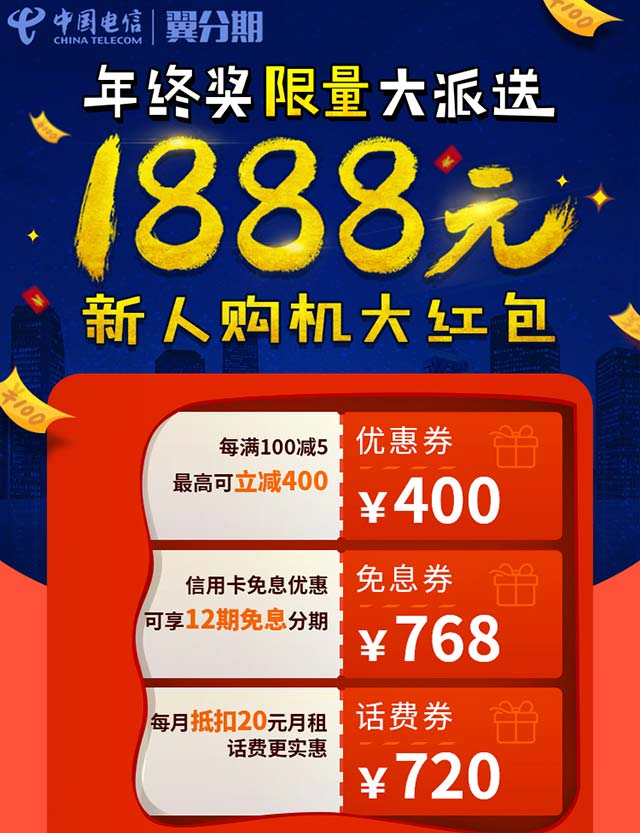
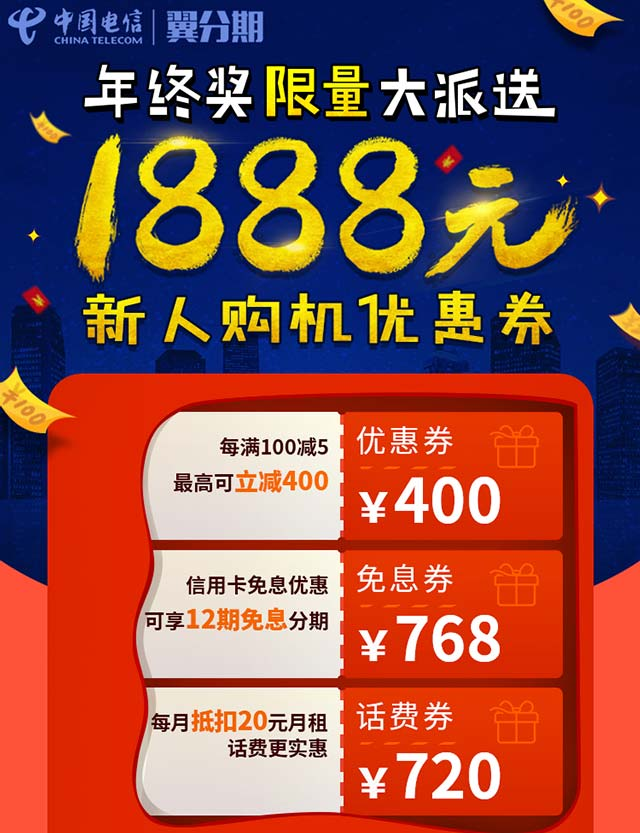
更新优惠券

diff --git a/public/spc/js/jquery.SuperSlide.2.1.1.js b/public/spc/js/jquery.SuperSlide.2.1.1.js
@@ -1,0 +1,15 @@
+/*!
+ * SuperSlide v2.1.1 
+ * 轻松解决网站大部分特效展示问题
+ * 详尽信息请看官网：http://www.SuperSlide2.com/
+ *
+ * Copyright 2011-2013, 大话主席
+ *
+ * 请尊重原创，保留头部版权
+ * 在保留版权的前提下可应用于个人或商业用途
+
+ * v2.1.1：修复当调用多个SuperSlide，并设置returnDefault:true 时返回defaultIndex索引错误
+
+ */
+
+!function(a){a.fn.slide=function(b){return a.fn.slide.defaults={type:"slide",effect:"fade",autoPlay:!1,delayTime:500,interTime:2500,triggerTime:150,defaultIndex:0,titCell:".hd li",mainCell:".bd",targetCell:null,trigger:"mouseover",scroll:1,vis:1,titOnClassName:"on",autoPage:!1,prevCell:".prev",nextCell:".next",pageStateCell:".pageState",opp:!1,pnLoop:!0,easing:"swing",startFun:null,endFun:null,switchLoad:null,playStateCell:".playState",mouseOverStop:!0,defaultPlay:!0,returnDefault:!1},this.each(function(){var c=a.extend({},a.fn.slide.defaults,b),d=a(this),e=c.effect,f=a(c.prevCell,d),g=a(c.nextCell,d),h=a(c.pageStateCell,d),i=a(c.playStateCell,d),j=a(c.titCell,d),k=j.size(),l=a(c.mainCell,d),m=l.children().size(),n=c.switchLoad,o=a(c.targetCell,d),p=parseInt(c.defaultIndex),q=parseInt(c.delayTime),r=parseInt(c.interTime);parseInt(c.triggerTime);var Q,t=parseInt(c.scroll),u=parseInt(c.vis),v="false"==c.autoPlay||0==c.autoPlay?!1:!0,w="false"==c.opp||0==c.opp?!1:!0,x="false"==c.autoPage||0==c.autoPage?!1:!0,y="false"==c.pnLoop||0==c.pnLoop?!1:!0,z="false"==c.mouseOverStop||0==c.mouseOverStop?!1:!0,A="false"==c.defaultPlay||0==c.defaultPlay?!1:!0,B="false"==c.returnDefault||0==c.returnDefault?!1:!0,C=0,D=0,E=0,F=0,G=c.easing,H=null,I=null,J=null,K=c.titOnClassName,L=j.index(d.find("."+K)),M=p=-1==L?p:L,N=p,O=p,P=m>=u?0!=m%t?m%t:t:0,R="leftMarquee"==e||"topMarquee"==e?!0:!1,S=function(){a.isFunction(c.startFun)&&c.startFun(p,k,d,a(c.titCell,d),l,o,f,g)},T=function(){a.isFunction(c.endFun)&&c.endFun(p,k,d,a(c.titCell,d),l,o,f,g)},U=function(){j.removeClass(K),A&&j.eq(N).addClass(K)};if("menu"==c.type)return A&&j.removeClass(K).eq(p).addClass(K),j.hover(function(){Q=a(this).find(c.targetCell);var b=j.index(a(this));I=setTimeout(function(){switch(p=b,j.removeClass(K).eq(p).addClass(K),S(),e){case"fade":Q.stop(!0,!0).animate({opacity:"show"},q,G,T);break;case"slideDown":Q.stop(!0,!0).animate({height:"show"},q,G,T)}},c.triggerTime)},function(){switch(clearTimeout(I),e){case"fade":Q.animate({opacity:"hide"},q,G);break;case"slideDown":Q.animate({height:"hide"},q,G)}}),B&&d.hover(function(){clearTimeout(J)},function(){J=setTimeout(U,q)}),void 0;if(0==k&&(k=m),R&&(k=2),x){if(m>=u)if("leftLoop"==e||"topLoop"==e)k=0!=m%t?(0^m/t)+1:m/t;else{var V=m-u;k=1+parseInt(0!=V%t?V/t+1:V/t),0>=k&&(k=1)}else k=1;j.html("");var W="";if(1==c.autoPage||"true"==c.autoPage)for(var X=0;k>X;X++)W+="<li>"+(X+1)+"</li>";else for(var X=0;k>X;X++)W+=c.autoPage.replace("$",X+1);j.html(W);var j=j.children()}if(m>=u){l.children().each(function(){a(this).width()>E&&(E=a(this).width(),D=a(this).outerWidth(!0)),a(this).height()>F&&(F=a(this).height(),C=a(this).outerHeight(!0))});var Y=l.children(),Z=function(){for(var a=0;u>a;a++)Y.eq(a).clone().addClass("clone").appendTo(l);for(var a=0;P>a;a++)Y.eq(m-a-1).clone().addClass("clone").prependTo(l)};switch(e){case"fold":l.css({position:"relative",width:D,height:C}).children().css({position:"absolute",width:E,left:0,top:0,display:"none"});break;case"top":l.wrap('<div class="tempWrap" style="overflow:hidden; position:relative; height:'+u*C+'px"></div>').css({top:-(p*t)*C,position:"relative",padding:"0",margin:"0"}).children().css({height:F});break;case"left":l.wrap('<div class="tempWrap" style="overflow:hidden; position:relative; width:'+u*D+'px"></div>').css({width:m*D,left:-(p*t)*D,position:"relative",overflow:"hidden",padding:"0",margin:"0"}).children().css({"float":"left",width:E});break;case"leftLoop":case"leftMarquee":Z(),l.wrap('<div class="tempWrap" style="overflow:hidden; position:relative; width:'+u*D+'px"></div>').css({width:(m+u+P)*D,position:"relative",overflow:"hidden",padding:"0",margin:"0",left:-(P+p*t)*D}).children().css({"float":"left",width:E});break;case"topLoop":case"topMarquee":Z(),l.wrap('<div class="tempWrap" style="overflow:hidden; position:relative; height:'+u*C+'px"></div>').css({height:(m+u+P)*C,position:"relative",padding:"0",margin:"0",top:-(P+p*t)*C}).children().css({height:F})}}var $=function(a){var b=a*t;return a==k?b=m:-1==a&&0!=m%t&&(b=-m%t),b},_=function(b){var c=function(c){for(var d=c;u+c>d;d++)b.eq(d).find("img["+n+"]").each(function(){var b=a(this);if(b.attr("src",b.attr(n)).removeAttr(n),l.find(".clone")[0])for(var c=l.children(),d=0;d<c.size();d++)c.eq(d).find("img["+n+"]").each(function(){a(this).attr(n)==b.attr("src")&&a(this).attr("src",a(this).attr(n)).removeAttr(n)})})};switch(e){case"fade":case"fold":case"top":case"left":case"slideDown":c(p*t);break;case"leftLoop":case"topLoop":c(P+$(O));break;case"leftMarquee":case"topMarquee":var d="leftMarquee"==e?l.css("left").replace("px",""):l.css("top").replace("px",""),f="leftMarquee"==e?D:C,g=P;if(0!=d%f){var h=Math.abs(0^d/f);g=1==p?P+h:P+h-1}c(g)}},ab=function(a){if(!A||M!=p||a||R){if(R?p>=1?p=1:0>=p&&(p=0):(O=p,p>=k?p=0:0>p&&(p=k-1)),S(),null!=n&&_(l.children()),o[0]&&(Q=o.eq(p),null!=n&&_(o),"slideDown"==e?(o.not(Q).stop(!0,!0).slideUp(q),Q.slideDown(q,G,function(){l[0]||T()})):(o.not(Q).stop(!0,!0).hide(),Q.animate({opacity:"show"},q,function(){l[0]||T()}))),m>=u)switch(e){case"fade":l.children().stop(!0,!0).eq(p).animate({opacity:"show"},q,G,function(){T()}).siblings().hide();break;case"fold":l.children().stop(!0,!0).eq(p).animate({opacity:"show"},q,G,function(){T()}).siblings().animate({opacity:"hide"},q,G);break;case"top":l.stop(!0,!1).animate({top:-p*t*C},q,G,function(){T()});break;case"left":l.stop(!0,!1).animate({left:-p*t*D},q,G,function(){T()});break;case"leftLoop":var b=O;l.stop(!0,!0).animate({left:-($(O)+P)*D},q,G,function(){-1>=b?l.css("left",-(P+(k-1)*t)*D):b>=k&&l.css("left",-P*D),T()});break;case"topLoop":var b=O;l.stop(!0,!0).animate({top:-($(O)+P)*C},q,G,function(){-1>=b?l.css("top",-(P+(k-1)*t)*C):b>=k&&l.css("top",-P*C),T()});break;case"leftMarquee":var c=l.css("left").replace("px","");0==p?l.animate({left:++c},0,function(){l.css("left").replace("px","")>=0&&l.css("left",-m*D)}):l.animate({left:--c},0,function(){l.css("left").replace("px","")<=-(m+P)*D&&l.css("left",-P*D)});break;case"topMarquee":var d=l.css("top").replace("px","");0==p?l.animate({top:++d},0,function(){l.css("top").replace("px","")>=0&&l.css("top",-m*C)}):l.animate({top:--d},0,function(){l.css("top").replace("px","")<=-(m+P)*C&&l.css("top",-P*C)})}j.removeClass(K).eq(p).addClass(K),M=p,y||(g.removeClass("nextStop"),f.removeClass("prevStop"),0==p&&f.addClass("prevStop"),p==k-1&&g.addClass("nextStop")),h.html("<span>"+(p+1)+"</span>/"+k)}};A&&ab(!0),B&&d.hover(function(){clearTimeout(J)},function(){J=setTimeout(function(){p=N,A?ab():"slideDown"==e?Q.slideUp(q,U):Q.animate({opacity:"hide"},q,U),M=p},300)});var bb=function(a){H=setInterval(function(){w?p--:p++,ab()},a?a:r)},cb=function(a){H=setInterval(ab,a?a:r)},db=function(){z||(clearInterval(H),bb())},eb=function(){(y||p!=k-1)&&(p++,ab(),R||db())},fb=function(){(y||0!=p)&&(p--,ab(),R||db())},gb=function(){clearInterval(H),R?cb():bb(),i.removeClass("pauseState")},hb=function(){clearInterval(H),i.addClass("pauseState")};if(v?R?(w?p--:p++,cb(),z&&l.hover(hb,gb)):(bb(),z&&d.hover(hb,gb)):(R&&(w?p--:p++),i.addClass("pauseState")),i.click(function(){i.hasClass("pauseState")?gb():hb()}),"mouseover"==c.trigger?j.hover(function(){var a=j.index(this);I=setTimeout(function(){p=a,ab(),db()},c.triggerTime)},function(){clearTimeout(I)}):j.click(function(){p=j.index(this),ab(),db()}),R){if(g.mousedown(eb),f.mousedown(fb),y){var ib,jb=function(){ib=setTimeout(function(){clearInterval(H),cb(0^r/10)},150)},kb=function(){clearTimeout(ib),clearInterval(H),cb()};g.mousedown(jb),g.mouseup(kb),f.mousedown(jb),f.mouseup(kb)}"mouseover"==c.trigger&&(g.hover(eb,function(){}),f.hover(fb,function(){}))}else g.click(eb),f.click(fb)})}}(jQuery),jQuery.easing.jswing=jQuery.easing.swing,jQuery.extend(jQuery.easing,{def:"easeOutQuad",swing:function(a,b,c,d,e){return jQuery.easing[jQuery.easing.def](a,b,c,d,e)},easeInQuad:function(a,b,c,d,e){return d*(b/=e)*b+c},easeOutQuad:function(a,b,c,d,e){return-d*(b/=e)*(b-2)+c},easeInOutQuad:function(a,b,c,d,e){return(b/=e/2)<1?d/2*b*b+c:-d/2*(--b*(b-2)-1)+c},easeInCubic:function(a,b,c,d,e){return d*(b/=e)*b*b+c},easeOutCubic:function(a,b,c,d,e){return d*((b=b/e-1)*b*b+1)+c},easeInOutCubic:function(a,b,c,d,e){return(b/=e/2)<1?d/2*b*b*b+c:d/2*((b-=2)*b*b+2)+c},easeInQuart:function(a,b,c,d,e){return d*(b/=e)*b*b*b+c},easeOutQuart:function(a,b,c,d,e){return-d*((b=b/e-1)*b*b*b-1)+c},easeInOutQuart:function(a,b,c,d,e){return(b/=e/2)<1?d/2*b*b*b*b+c:-d/2*((b-=2)*b*b*b-2)+c},easeInQuint:function(a,b,c,d,e){return d*(b/=e)*b*b*b*b+c},easeOutQuint:function(a,b,c,d,e){return d*((b=b/e-1)*b*b*b*b+1)+c},easeInOutQuint:function(a,b,c,d,e){return(b/=e/2)<1?d/2*b*b*b*b*b+c:d/2*((b-=2)*b*b*b*b+2)+c},easeInSine:function(a,b,c,d,e){return-d*Math.cos(b/e*(Math.PI/2))+d+c},easeOutSine:function(a,b,c,d,e){return d*Math.sin(b/e*(Math.PI/2))+c},easeInOutSine:function(a,b,c,d,e){return-d/2*(Math.cos(Math.PI*b/e)-1)+c},easeInExpo:function(a,b,c,d,e){return 0==b?c:d*Math.pow(2,10*(b/e-1))+c},easeOutExpo:function(a,b,c,d,e){return b==e?c+d:d*(-Math.pow(2,-10*b/e)+1)+c},easeInOutExpo:function(a,b,c,d,e){return 0==b?c:b==e?c+d:(b/=e/2)<1?d/2*Math.pow(2,10*(b-1))+c:d/2*(-Math.pow(2,-10*--b)+2)+c},easeInCirc:function(a,b,c,d,e){return-d*(Math.sqrt(1-(b/=e)*b)-1)+c},easeOutCirc:function(a,b,c,d,e){return d*Math.sqrt(1-(b=b/e-1)*b)+c},easeInOutCirc:function(a,b,c,d,e){return(b/=e/2)<1?-d/2*(Math.sqrt(1-b*b)-1)+c:d/2*(Math.sqrt(1-(b-=2)*b)+1)+c},easeInElastic:function(a,b,c,d,e){var f=1.70158,g=0,h=d;if(0==b)return c;if(1==(b/=e))return c+d;if(g||(g=.3*e),h<Math.abs(d)){h=d;var f=g/4}else var f=g/(2*Math.PI)*Math.asin(d/h);return-(h*Math.pow(2,10*(b-=1))*Math.sin((b*e-f)*2*Math.PI/g))+c},easeOutElastic:function(a,b,c,d,e){var f=1.70158,g=0,h=d;if(0==b)return c;if(1==(b/=e))return c+d;if(g||(g=.3*e),h<Math.abs(d)){h=d;var f=g/4}else var f=g/(2*Math.PI)*Math.asin(d/h);return h*Math.pow(2,-10*b)*Math.sin((b*e-f)*2*Math.PI/g)+d+c},easeInOutElastic:function(a,b,c,d,e){var f=1.70158,g=0,h=d;if(0==b)return c;if(2==(b/=e/2))return c+d;if(g||(g=e*.3*1.5),h<Math.abs(d)){h=d;var f=g/4}else var f=g/(2*Math.PI)*Math.asin(d/h);return 1>b?-.5*h*Math.pow(2,10*(b-=1))*Math.sin((b*e-f)*2*Math.PI/g)+c:.5*h*Math.pow(2,-10*(b-=1))*Math.sin((b*e-f)*2*Math.PI/g)+d+c},easeInBack:function(a,b,c,d,e,f){return void 0==f&&(f=1.70158),d*(b/=e)*b*((f+1)*b-f)+c},easeOutBack:function(a,b,c,d,e,f){return void 0==f&&(f=1.70158),d*((b=b/e-1)*b*((f+1)*b+f)+1)+c},easeInOutBack:function(a,b,c,d,e,f){return void 0==f&&(f=1.70158),(b/=e/2)<1?d/2*b*b*(((f*=1.525)+1)*b-f)+c:d/2*((b-=2)*b*(((f*=1.525)+1)*b+f)+2)+c},easeInBounce:function(a,b,c,d,e){return d-jQuery.easing.easeOutBounce(a,e-b,0,d,e)+c},easeOutBounce:function(a,b,c,d,e){return(b/=e)<1/2.75?d*7.5625*b*b+c:2/2.75>b?d*(7.5625*(b-=1.5/2.75)*b+.75)+c:2.5/2.75>b?d*(7.5625*(b-=2.25/2.75)*b+.9375)+c:d*(7.5625*(b-=2.625/2.75)*b+.984375)+c},easeInOutBounce:function(a,b,c,d,e){return e/2>b?.5*jQuery.easing.easeInBounce(a,2*b,0,d,e)+c:.5*jQuery.easing.easeOutBounce(a,2*b-e,0,d,e)+.5*d+c}});

diff --git a/public/html/pages/phone/active/active.js b/public/html/pages/phone/active/active.js
@@ -44,46 +44,34 @@ app.config(['$stateProvider', '$locationProvider', function ($stateProvider, $lo
     //统计
     writebdLog($scope.category, "_Load", "渠道号", $scope.gh);
 
-    $interval(function () {
-        $scope.getters = [
-            {
-                txt: getRandomReceiverPhone() + " 领取了1888元大红包 <span>" + getRanDomTime() + "秒前</span>"
-            },
-            {
-                txt: getRandomReceiverPhone() + " 领取了1888元大红包 <span>" + getRanDomTime() + "秒前</span>"
-            },
-            {
-                txt: getRandomReceiverPhone() + " 领取了1888元大红包 <span>" + getRanDomTime() + "秒前</span>"
-            },
-            {
-                txt: getRandomReceiverPhone() + " 领取了1888元大红包 <span>" + getRanDomTime() + "秒前</span>"
-            },
+    var objGetters = new Array();
+
+    for (var i = 0; i <= 10; i++) {
+        objGetters.push(
             {
                 txt: getRandomReceiverPhone() + " 领取了1888元大红包 <span>" + getRanDomTime() + "秒前</span>"
             }
-        ];
-    }, 2000);
+        );
+    }
 
-    /*$(".content-scrollable").bind("scroll", function () {
-     var $footerNav = $(".footer-nav");
-     var $rightNav = $(".right-nav");
-     var targetTop = $(".hot-phone").offset().top;
-     if ($(this).scrollTop() > 500) {
-     $rightNav.show(300);
-     $footerNav.show(300);
-     } else {
-     $rightNav.hide(300);
-     $footerNav.hide(300);
-     }
-     });*/
-
-    $interval(function () {
-        $scope.selkillTxt = getRandomName() + "，刚刚购买了 " + getRandomProduct();
-    }, 2000);
+    $scope.getters = objGetters;
 
     //记录用户购买的商品：专区模块英文名称+商品id
     $scope.writeSelectFoods = function (obj, productId, modular) {
         writebdLog($scope.category, "_" + productId + modular, "渠道号", $scope.gh);//选择的商品ID
     };
+
+    $scope.$on('ngRepeatFinished', function (ngRepeatFinishedEvent) {
+        //下面是在数据 render完成后执行的js
+        console.log("1");
+        $(".getters").slide({
+            mainCell: "ul",
+            autoPage: true,
+            effect: "topMarquee",
+            autoPlay: true,
+            interTime: 50,
+            vis: 5
+        });
+    });
 
 }]);

diff --git a/public/html/pages/phone/active/A/index.html b/public/html/pages/phone/active/A/index.html
@@ -1,7 +1,7 @@
 <div class="page active-a">
     <!-- pia phone-index-c -->
     <top-nav page-title="中国电信●翼分期商城" page-back="menu" nav-visibility="hide"></top-nav>
-    <div class="content-scrollable has-footer">
+    <div class="content-scrollable">
         <gh></gh>
         <div id="indexBanner">
             <div class="img-box">
@@ -37,7 +37,9 @@
                 <img src="/images/active/4.jpg">
             </div>
             <div class="getters">
-                <p ng-repeat="getter in getters" ng-bind-html="getter.txt | trustHtml"></p>
+                <ul>
+                    <li ng-repeat="getter in getters" ng-bind-html="getter.txt | trustHtml" on-finish></li>
+                </ul>
             </div>
         </div>
 

diff --git a/routes/api.js b/routes/api.js
@@ -359,11 +359,20 @@ router.get('/getNumber', function (req, res) {
     });
 });
 
-router.post('/wechat', function (req, res) {
-    var clientUrl = req.body.url;
+router.get('/wechat/:surl', function (req, res) {
+    res.header("Access-Control-Allow-Origin", "*");
+    res.header("Access-Control-Allow-Methods", "GET, POST");
+    //以上两行设置跨域请求
+
+    var clientUrl = req.params.surl;
+
+    console.log(clientUrl);
 
     getJsApiData(clientUrl).then(function (data) {
         res.send({signature: data[0], timestamp: data[1], nonceStr: data[2]});
+        console.log(
+            {signature: data[0], timestamp: data[1], nonceStr: data[2]}
+        );
     });
 });
 

diff --git a/public/html/pages/phoneCard/recharge/index.html b/public/html/pages/phoneCard/recharge/index.html
@@ -65,7 +65,7 @@
                     <div class="pd-w">
                         <ul class="item-lists minus pure-g">
                             <li class="list-item pure-u-5-8">
-                                <a href="http://app.yfq.cn/spc/pcd/index.html{{params}}" class="item-box margin border radius small active">
+                                <a href="http://app.yfq.cn/spc/pcd/index.html{{params}}" class="item-box margin border radius small" ng-class="{true:'active',false:'disabled'}[rechargeStatus == 0]">
                                     9.9元领卡，享充值优惠
                                 </a>
                             </li>

diff --git a/public/index.html b/public/index.html
@@ -91,6 +91,7 @@
 <script src="//apps.bdimg.com/libs/jquery/1.11.3/jquery.min.js" type="text/javascript"></script>
 <script src="//cdn.bootcss.com/jquery_lazyload/1.9.7/jquery.lazyload.min.js" type="text/javascript"></script>
 <script src="//cdn.bootcss.com/owl-carousel/1.32/owl.carousel.min.js" type="text/javascript"></script>
+<script src="/spc/js/jquery.SuperSlide.2.1.1.js" type="text/javascript"></script>
 <script src="https://res.wx.qq.com/open/js/jweixin-1.0.0.js" type="text/javascript"></script>
 <script src="/spc/js/nativeShare.js" type="text/javascript"></script>
 <!--<script src="/bower_components/velocity/velocity.min.js"></script>-->

diff --git a/routes/wxApi/wechatConfig.js b/routes/wxApi/wechatConfig.js
@@ -1,0 +1,4 @@
+module.exports = {
+    appid: 'wx4e6146eaa235aaa1',//公众号的appId，可以在公众平台上找到，-。-自己找。
+    appsecret: 'e88bed92af8d30501bfeed773f05a008'//公众号的appsecret
+};
